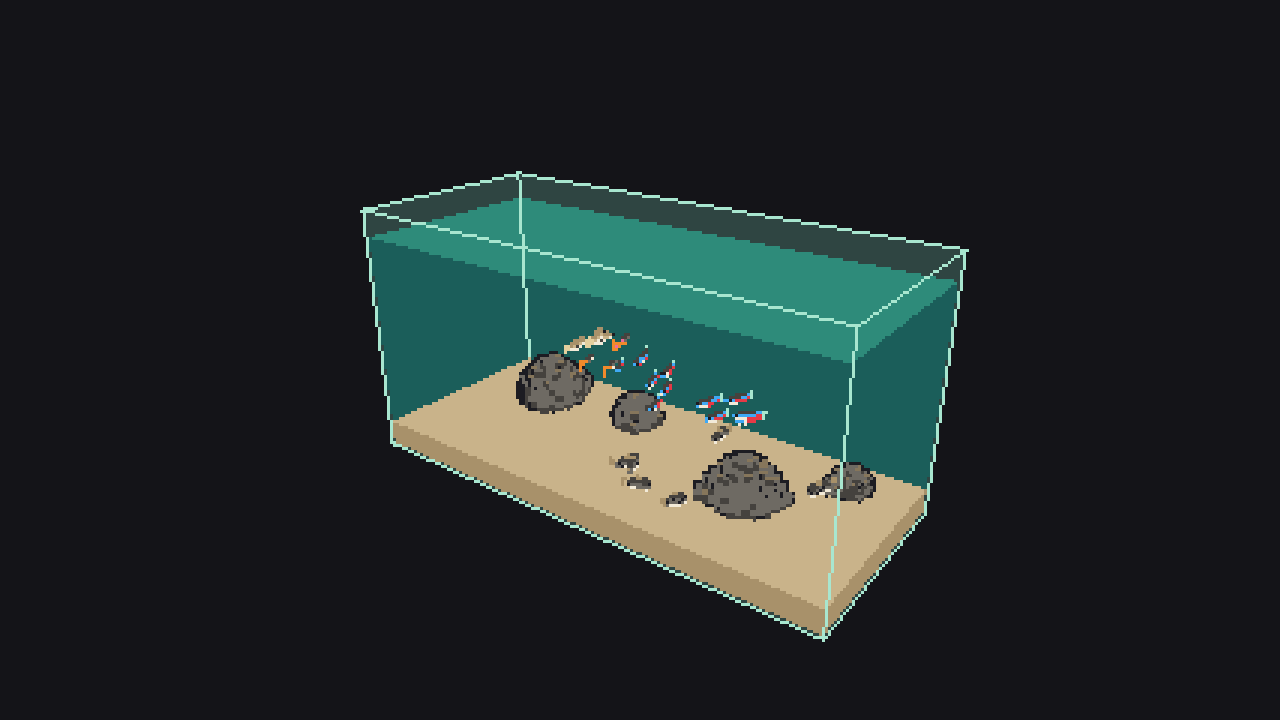
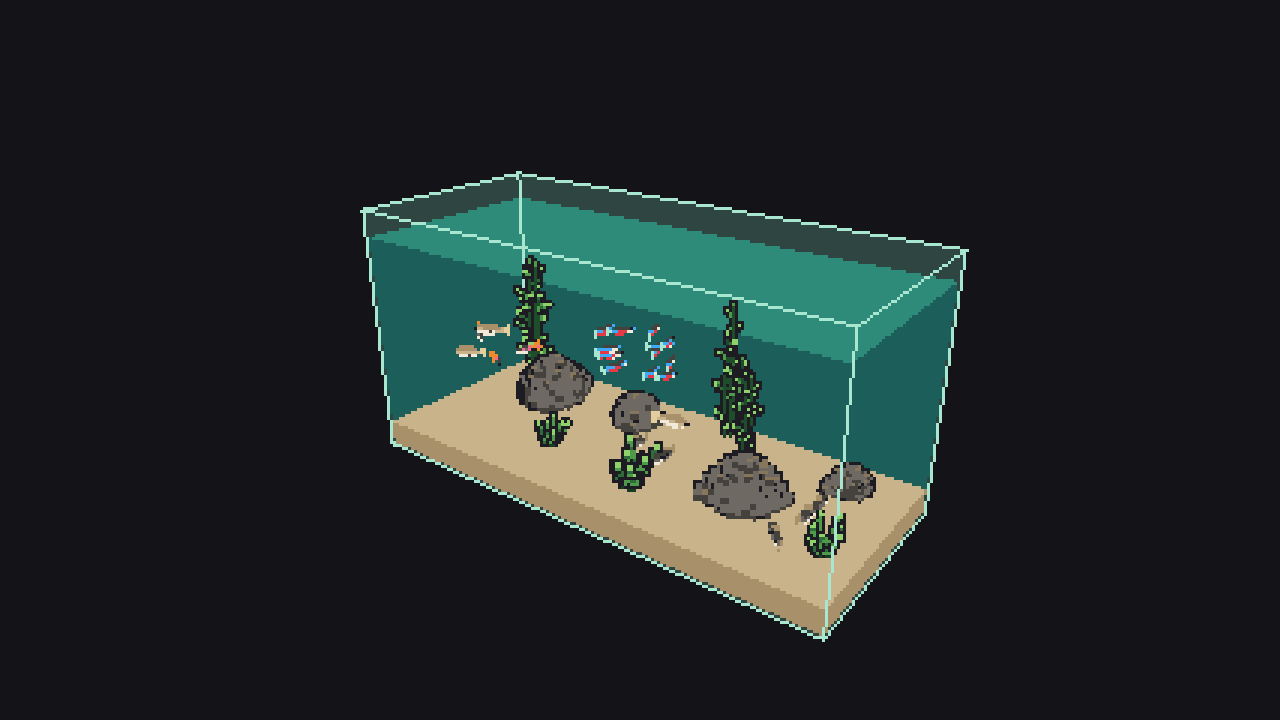
captures(c016): 5 angles

Changed region(s): [[0.3438, 0.3361, 0.5938, 0.7028], [0.5938, 0.6417, 0.6875, 0.7944]]

diff --git a/captures/latest/SOURCE.md b/captures/latest/SOURCE.md
@@ -1,3 +1,5 @@
-# Captures c015 (QA)
-- Branche : cycle/c015-decor-rochers, PR #58, commit 07dc0e3 (code applicatif)
-- Graine 42, temps 30 s simulées, 1280x720
+# Captures c016
+- Branche : cycle/c016-plantes-ondulent, PR #60
+- Commit : b45610e10e0ccea78fa1ce8e6d0a00e766d27807
+- Graine : 42, temps : défaut du harnais
+- Produites par QA (npm run captures)

diff --git a/captures/c016/SOURCE.md b/captures/c016/SOURCE.md
@@ -1,0 +1,5 @@
+# Captures c016
+- Branche : cycle/c016-plantes-ondulent, PR #60
+- Commit : b45610e10e0ccea78fa1ce8e6d0a00e766d27807
+- Graine : 42, temps : défaut du harnais
+- Produites par QA (npm run captures)
